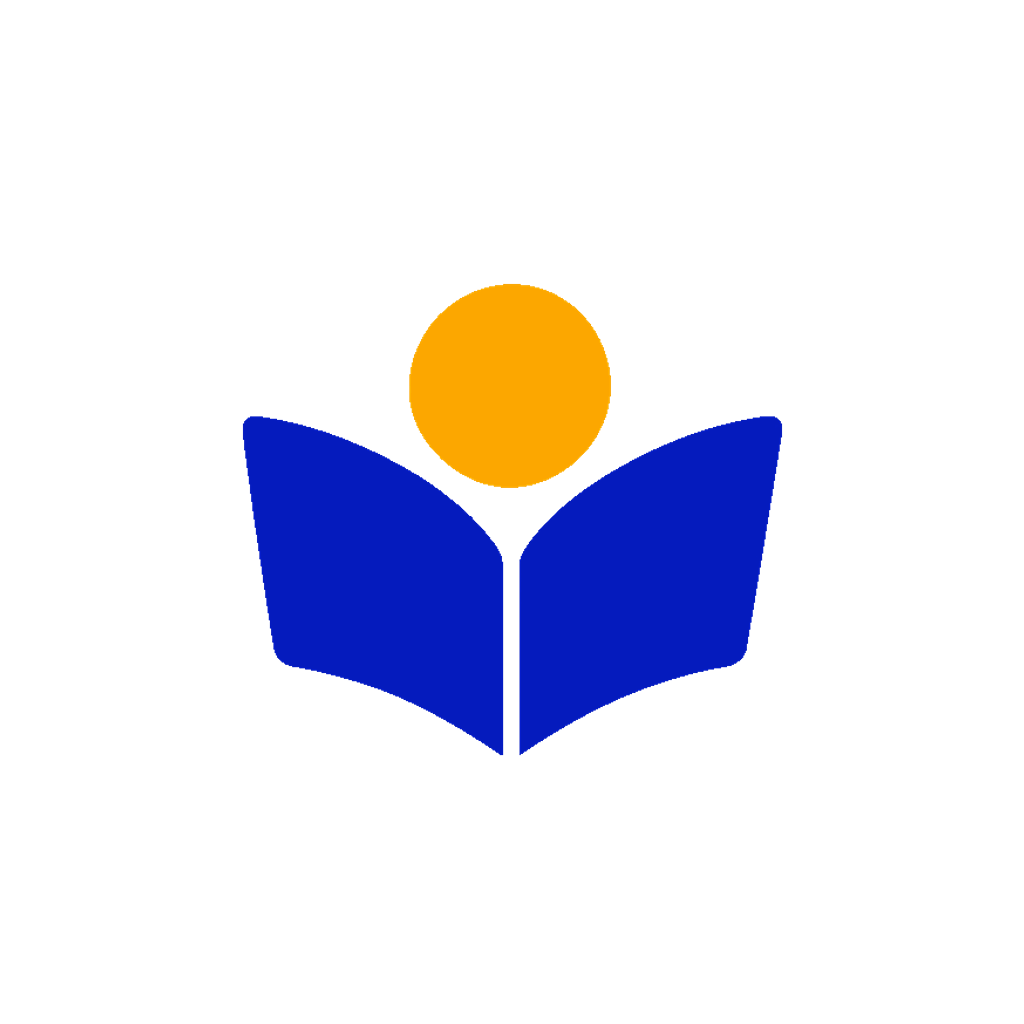
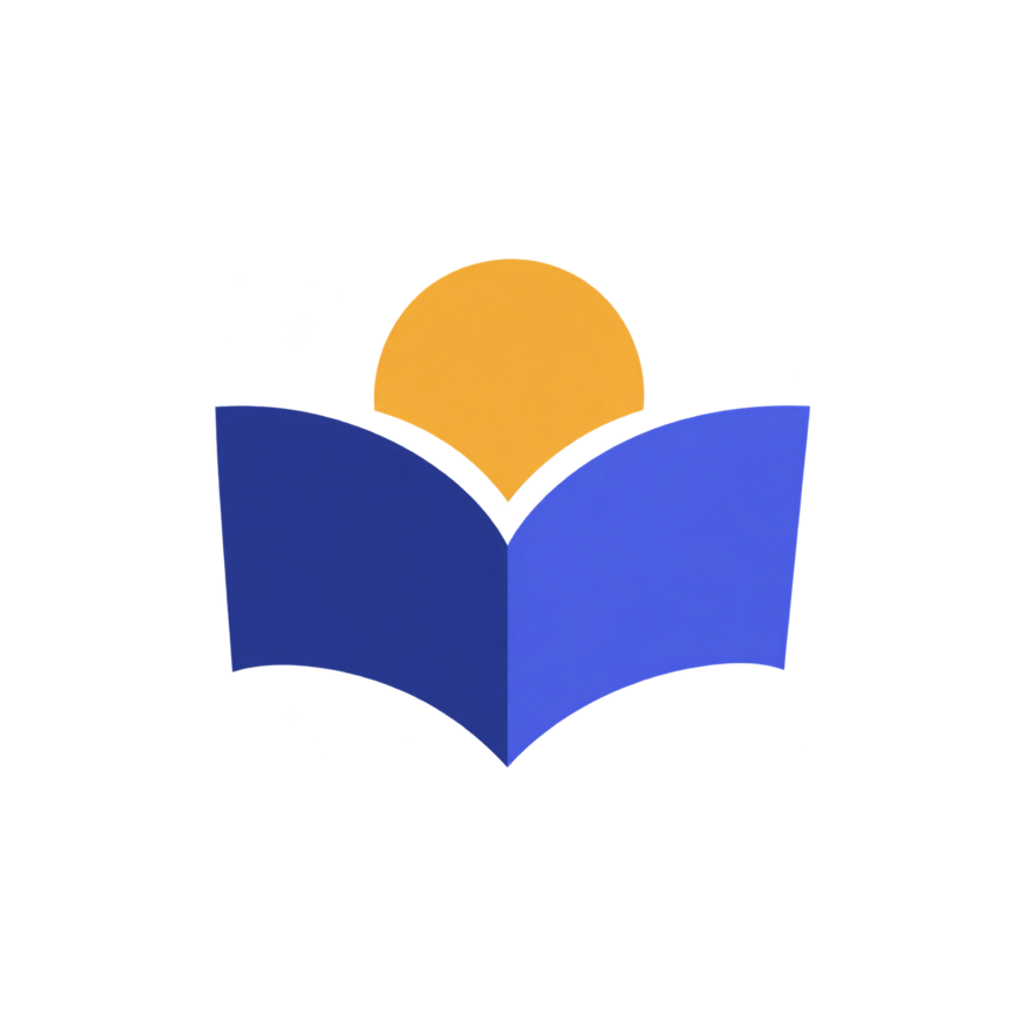
Refresh the SchoolHub mark and document Git Bash builds

Changed region(s): [[0.1875, 0.25, 0.8125, 0.75]]

diff --git a/apps/web/index.html b/apps/web/index.html
@@ -3,7 +3,7 @@
   <head>
     <meta charset="UTF-8" />
     <meta name="viewport" content="width=device-width, initial-scale=1.0" />
-    <link rel="icon" href="/schoolhub.webp" type="image/webp" />
+    <link rel="icon" href="/schoolhub-favicon.png" type="image/png" sizes="64x64" />
     <title>schoolHub</title>
     <!--
       Apply the saved theme before first paint so the page never flashes the

diff --git a/apps/desktop/README.md b/apps/desktop/README.md
@@ -80,6 +80,29 @@ pnpm dlx '@tauri-apps/cli@2.12.6' build --ci --debug --no-bundle --features shel
 & '.\src-tauri\target\x86_64-pc-windows-msvc\debug\schoolhub-desktop-spike.exe'
 ```
 
+### Build from Git Bash on Windows
+
+If Tauri reports `cargo metadata ... program not found`, Git Bash may have
+been opened before Rust was installed. Restart the app hosting the terminal
+and run `cargo --version`. If Cargo is still missing, add the Rustup bin folder
+to this shell's PATH. These commands start from `apps/desktop` with the shared
+workspace package already built and the local API listening on port 3001.
+
+```bash
+export PATH="$(cygpath -u "$USERPROFILE")/.cargo/bin:$PATH"
+hash -r
+cargo --version
+cargo metadata --manifest-path src-tauri/Cargo.toml --no-deps --format-version 1 > /dev/null
+
+export SCHOOLHUB_API_ORIGIN=http://127.0.0.1:3001
+pnpm.cmd dlx @tauri-apps/cli@2.12.6 build --ci --debug --no-bundle --features shell --target x86_64-pc-windows-msvc -- --locked
+./src-tauri/target/x86_64-pc-windows-msvc/debug/schoolhub-desktop-spike.exe
+```
+
+To enter the desktop folder from the repository root, run `cd apps/desktop`.
+From inside `apps`, run `cd desktop`. Git Bash uses forward slashes for these
+paths and `export` to pass the API origin to Tauri and Cargo.
+
 [tauri-prereqs]: https://v2.tauri.app/start/prerequisites/#windows
 [release-guide]: ../../docs/runbooks/production-versioning.md
 

diff --git a/apps/mobile/README.md b/apps/mobile/README.md
@@ -180,7 +180,7 @@ npx eas-cli build --platform android --profile production
 
 The schoolHub artwork in `assets/schoolhub-mark.png` supplies the
 mobile wordmark, launcher, adaptive icon, splash and favicon, as well as the
-web sign-in mark. Regenerate those assets with
+web sign-in mark, browser favicon and Windows desktop icons. Regenerate those assets with
 `node scripts/generate-assets.mjs` from `apps/mobile` using the installed Expo
 image toolchain. Rebuild the native client to see the new launcher and splash.
 
